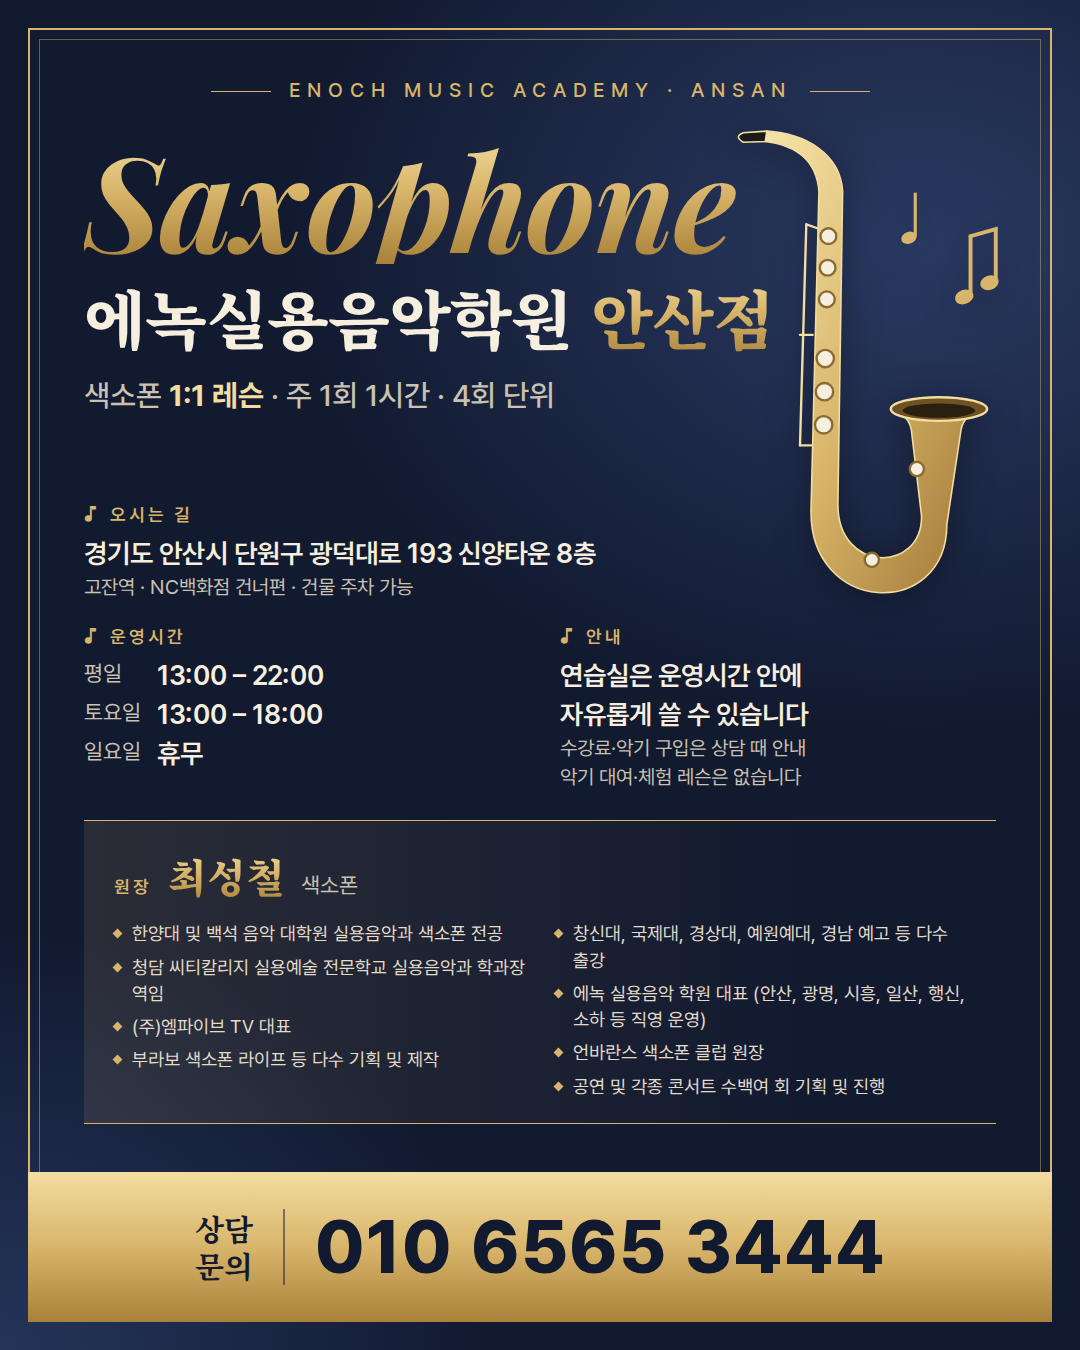
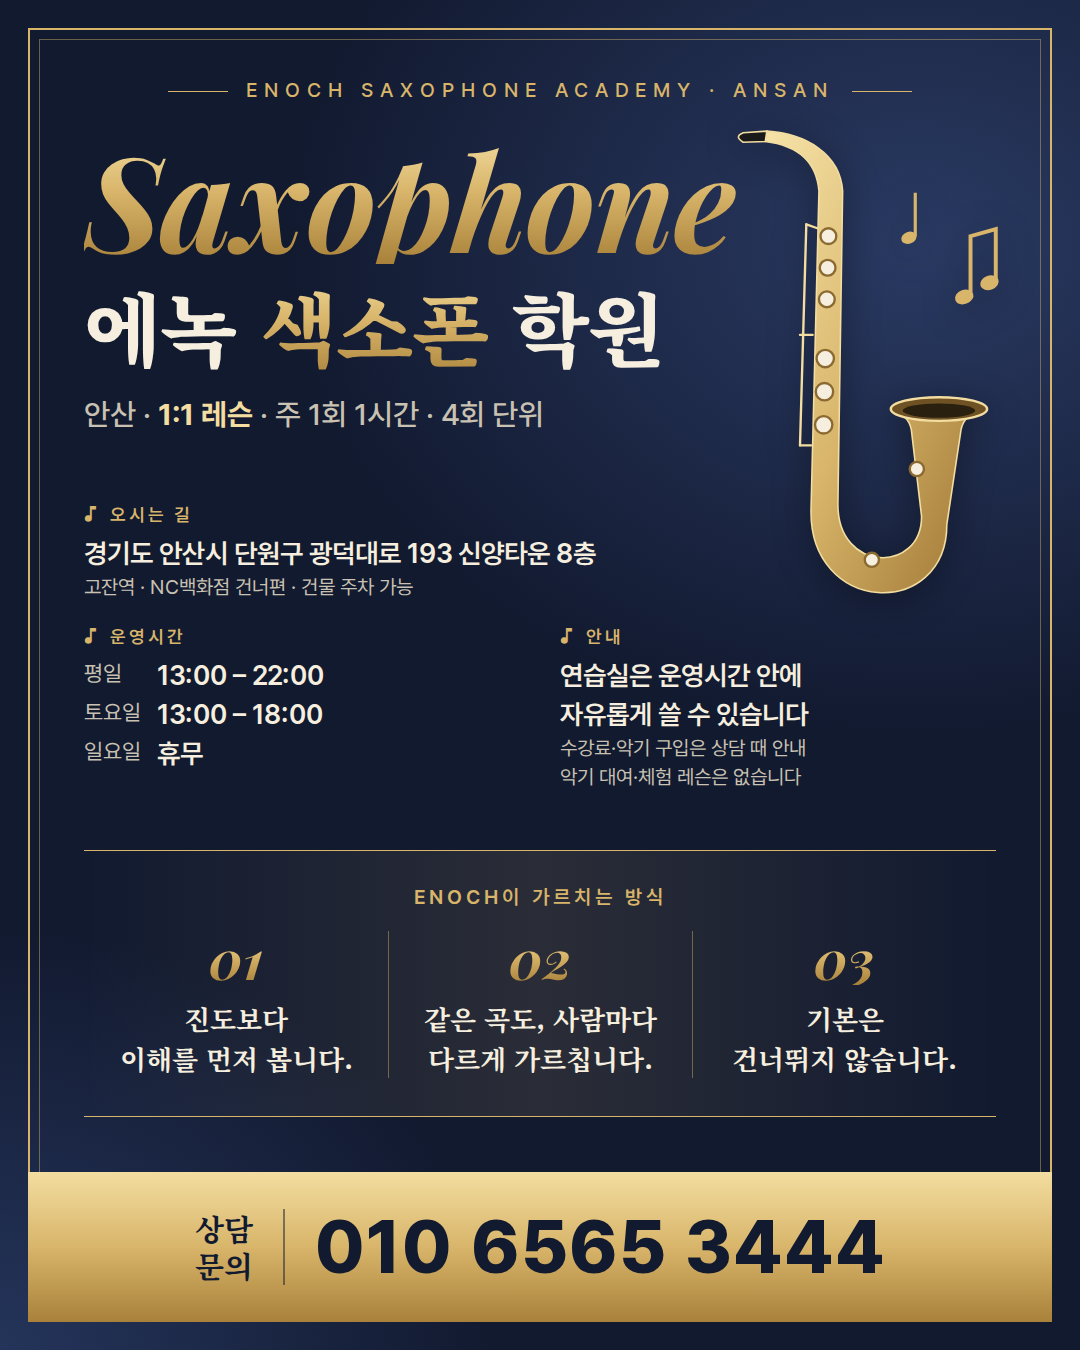
Ansan: rename to 에녹 색소폰 학원, replace profile with teaching principles on info sheet
Claude-Session: https://claude.ai/code/session_01JzCxr6iy8W7cHp7LhxS94F

diff --git a/blog/info/안산점_정보.html b/blog/info/안산점_정보.html
@@ -30,7 +30,7 @@
 
   .hero { position: relative; margin-top: 30px; height: 330px; }
   .script { font-family: var(--script); font-style: italic; font-weight: 700; font-size: 132px; line-height: 1; letter-spacing: -1px; }
-  .hero h1 { margin-top: 14px; font-family: var(--serif); font-weight: 900; font-size: 64px; line-height: 1.2; letter-spacing: -1px; }
+  .hero h1 { margin-top: 14px; font-family: var(--serif); font-weight: 900; font-size: 80px; line-height: 1.2; letter-spacing: -1px; }
   .hero h1 em { font-style: normal; }
   .hero .sub { margin-top: 22px; font-size: 30px; color: var(--soft); font-weight: 500; }
   .hero .sub b { color: var(--gold-hi); font-weight: 700; }
@@ -50,15 +50,14 @@
   .hours { display: grid; grid-template-columns: auto auto; column-gap: 16px; justify-content: start; }
   .hours span:nth-child(odd) { color: var(--soft); font-weight: 400; font-size: 22px; padding-top: 2px; }
 
-  .teacher { margin-top: 28px; padding: 26px 30px 24px; border-top: 1.5px solid var(--gold); border-bottom: 1.5px solid var(--gold);
-    background: linear-gradient(90deg, rgba(216,181,106,.12), rgba(216,181,106,0) 80%); }
-  .teacher .name { display: flex; align-items: baseline; gap: 16px; }
-  .teacher .name .k { font-size: 18px; color: var(--gold); letter-spacing: 3px; font-weight: 600; }
-  .teacher .name b { font-family: var(--serif); font-size: 40px; font-weight: 900; }
-  .teacher .name span { font-size: 22px; color: var(--soft); }
-  .bio { margin-top: 16px; list-style: none; column-count: 2; column-gap: 30px; }
-  .bio li { break-inside: avoid; margin-bottom: 7px; position: relative; padding-left: 18px; font-size: 18.5px; line-height: 1.42; color: #E4DCCB; }
-  .bio li::before { content: ""; position: absolute; left: 0; top: 10px; width: 7px; height: 7px; background: var(--gold); transform: rotate(45deg); }
+  .ways { margin-top: 58px; padding: 34px 0 38px; border-top: 1.5px solid var(--gold); border-bottom: 1.5px solid var(--gold);
+    background: linear-gradient(90deg, rgba(216,181,106,0), rgba(216,181,106,.12) 50%, rgba(216,181,106,0)); }
+  .ways-k { text-align: center; font-size: 20px; color: var(--gold); letter-spacing: 4px; font-weight: 600; }
+  .ways-row { margin-top: 22px; display: grid; grid-template-columns: 1fr 1fr 1fr; }
+  .way { text-align: center; padding: 0 14px; }
+  .way + .way { border-left: 1px solid rgba(216,181,106,.45); }
+  .way .n { font-family: var(--script); font-style: italic; font-weight: 700; font-size: 54px; line-height: 1; }
+  .way p { margin-top: 14px; font-family: var(--serif); font-weight: 700; font-size: 27px; line-height: 1.45; }
 
   .call { position: absolute; left: 28px; right: 28px; bottom: 28px; height: 150px; display: flex; align-items: center; justify-content: center; gap: 30px;
     background: linear-gradient(180deg, var(--gold-hi) 0%, var(--gold) 50%, var(--gold-lo) 100%); color: var(--navy); }
@@ -72,12 +71,12 @@
   <div class="frame"></div>
 
   <div class="inner">
-    <div class="top"><i></i>ENOCH MUSIC ACADEMY · ANSAN<i></i></div>
+    <div class="top"><i></i>ENOCH SAXOPHONE ACADEMY · ANSAN<i></i></div>
 
     <div class="hero">
       <div class="script gold">Saxophone</div>
-      <h1>에녹실용음악학원 <em class="gold">안산점</em></h1>
-      <div class="sub">색소폰 <b>1:1 레슨</b> · 주 1회 1시간 · 4회 단위</div>
+      <h1>에녹 <em class="gold">색소폰</em> 학원</h1>
+      <div class="sub">안산 · <b>1:1 레슨</b> · 주 1회 1시간 · 4회 단위</div>
 
       <svg class="sax" viewBox="0 0 380 680" fill="none" aria-hidden="true">
         <defs>
@@ -124,18 +123,13 @@
           <small>수강료·악기 구입은 상담 때 안내<br>악기 대여·체험 레슨은 없습니다</small></div></div>
     </div>
 
-    <div class="teacher">
-      <div class="name"><span class="k">원장</span><b class="gold">최성철</b><span>색소폰</span></div>
-      <ul class="bio">
-        <li>한양대 및 백석 음악 대학원 실용음악과 색소폰 전공</li>
-        <li>청담 씨티칼리지 실용예술 전문학교 실용음악과 학과장 역임</li>
-        <li>(주)엠파이브 TV 대표</li>
-        <li>부라보 색소폰 라이프 등 다수 기획 및 제작</li>
-        <li>창신대, 국제대, 경상대, 예원예대, 경남 예고 등 다수 출강</li>
-        <li>에녹 실용음악 학원 대표 (안산, 광명, 시흥, 일산, 행신, 소하 등 직영 운영)</li>
-        <li>언바란스 색소폰 클럽 원장</li>
-        <li>공연 및 각종 콘서트 수백여 회 기획 및 진행</li>
-      </ul>
+    <div class="ways">
+      <div class="ways-k">ENOCH이 가르치는 방식</div>
+      <div class="ways-row">
+        <div class="way"><div class="n gold">01</div><p>진도보다<br>이해를 먼저 봅니다.</p></div>
+        <div class="way"><div class="n gold">02</div><p>같은 곡도, 사람마다<br>다르게 가르칩니다.</p></div>
+        <div class="way"><div class="n gold">03</div><p>기본은<br>건너뛰지 않습니다.</p></div>
+      </div>
     </div>
   </div>
 

diff --git a/blog/GUIDE.md b/blog/GUIDE.md
@@ -12,7 +12,7 @@
 
 `[확인 필요]`로 남은 항목은 글에 쓰지 않는다. 지어내지 않고, 글 안에서 그 자리를 빼고 검수 보고의 "학원에 확인할 것"에 올린다.
 
-- 공식 명칭: 에녹실용음악학원 안산점
+- 학원명: 에녹 색소폰 학원 (안산) — 블로그·이미지에서는 이 이름을 쓴다. 학원 정보 블록 첫 줄도 "에녹 색소폰 학원".
 - 주소: 경기도 안산시 단원구 광덕대로 193 신양타운 8층
 - 전화: 010 6565 3444
   - 0507-1307-4295는 글에 쓰지 않는다. 연락처는 010 번호 하나로 통일한다.

diff --git a/.claude/agents/saxblog-writer.md b/.claude/agents/saxblog-writer.md
@@ -32,7 +32,7 @@ model: inherit
 <한 가지 행동만: 전화 상담 (안산점은 체험 레슨·악기 대여를 하지 않는다)>
 
 ---
-에녹실용음악학원 안산점
+에녹 색소폰 학원
 <GUIDE 1번의 확인된 항목만. [확인 필요] 항목은 줄째 뺀다>
 
 # 태그
